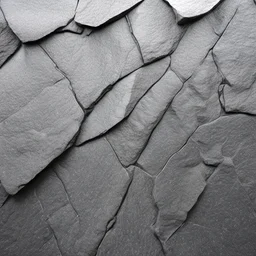
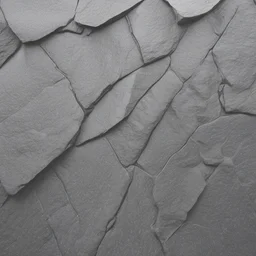
Tienda y tableros: tarjetas, textura relativa y juntas de magma
Las tarjetas de la tienda ya no se estiran al final de la fila. La
textura de casilla usa medidas relativas (200 %) y cubre cualquier
tamaño. Los colores de respaldo son los de las texturas nuevas y las
coordenadas de magma usan #F2F2F2 (3,67:1 y 8,54:1). BoardSeams dibuja
la lava de las juntas encima de la textura y debajo de las piezas, solo
en magma, en tablero, vista previa y miniaturas. Casilla clara de magma
con media 124,6 y desvío 25.

diff --git a/src/screens/ShopScreen.tsx b/src/screens/ShopScreen.tsx
@@ -10,6 +10,7 @@ import { showDialog } from '../components/dialog';
 import Piece from '../components/Piece';
 import { Segmented } from '../components/Segmented';
 import { SquareTexture } from '../components/SquareTexture';
+import { BoardSeams } from '../components/BoardSeams';
 import { StatIcon } from '../components/StatIcon';
 import { statusBarTop } from '../components/statusBarTop';
 import { Tip } from '../components/Tip';
@@ -25,7 +26,7 @@ import { useSettings } from '../settings/SettingsContext';
 import { TIP_MESSAGES } from '../settings/tips';
 import { useBoardTheme } from '../settings/useBoardTheme';
 import { useTips } from '../settings/useTips';
-import { boardThemes, cardSkin, type, colors, fonts, radius, space } from '../theme';
+import { boardSeams, boardThemes, cardSkin, type, colors, fonts, radius, space } from '../theme';
 import type { BoardThemeId } from '../theme';
 
 export type ShopTab = 'boards' | 'pieces';
@@ -236,7 +237,8 @@ function BoardThumb({ id }: { id: BoardThemeId }) {
         return (
           <View key={i} style={styles.thumbCell}>
             <View style={[StyleSheet.absoluteFill, { backgroundColor: light ? theme.light : theme.dark }]} />
-            <SquareTexture theme={id} light={light} size={64} seed={i} />
+            <SquareTexture theme={id} light={light} seed={i} />
+            {boardSeams(id) && <BoardSeams cell={44} left={i % 4 > 0} top={i >= 4} />}
           </View>
         );
       })}
@@ -257,7 +259,8 @@ function SetThumb({ id, board }: { id: AnyPieceSetId; board: BoardThemeId }) {
         const light = i % 2 === 0;
         return (
           <View key={p.type} style={[styles.thumbPieceCell, { backgroundColor: light ? theme.light : theme.dark }]}>
-            <SquareTexture theme={board} light={light} size={64} seed={i} />
+            <SquareTexture theme={board} light={light} seed={i} />
+            {boardSeams(board) && <BoardSeams cell={56} left={i > 0} />}
             <Piece type={p.type} color={p.color} size={44} set={id} showEmbers />
           </View>
         );
@@ -301,8 +304,8 @@ const styles = StyleSheet.create({
   right: { flex: 1, minWidth: 0 },
   grid: { flexDirection: 'row', flexWrap: 'wrap', gap: space.md, marginTop: space.lg },
   item: { ...cardSkin, borderRadius: 18, borderWidth: 2, padding: space.sm, gap: 10 },
-  itemWide: { flexGrow: 1, flexBasis: '30%' },
-  itemNarrow: { flexGrow: 1, flexBasis: '46%' },
+  itemWide: { flexBasis: '30%' },
+  itemNarrow: { flexBasis: '46%' },
   itemSelected: { borderColor: colors.gold },
   itemName: { fontFamily: fonts.extrabold, fontSize: type.body, color: colors.text },
   itemState: { fontFamily: fonts.bold, fontSize: type.secondary, color: colors.textMuted, minHeight: 20 },

diff --git a/src/theme.ts b/src/theme.ts
@@ -71,16 +71,25 @@ export const boardThemes = {
   azul: { name: 'Azul', light: '#DEE3E6', dark: '#8CA2AD' },
   gris: { name: 'Gris', light: '#E3E3E3', dark: '#969696' },
   morado: { name: 'Morado', light: '#EAE3F2', dark: '#9C83B8' },
-  // Con textura (assets/texturas, ver src/pieces/textures.ts). Los colores son el promedio de la textura:
-  // sirven de respaldo, para las coordenadas y para la vista previa.
-  madera: { name: 'Madera', light: '#E0BE8A', dark: '#7A4A2A', texture: 'madera' },
-  marmol: { name: 'Mármol', light: '#E8E6E1', dark: '#2F5A44', texture: 'marmol' },
+  // Con textura (assets/texturas, ver src/pieces/textures.ts). Los colores son el promedio de las texturas
+  // nuevas (15-11-2026): sirven de respaldo mientras cargan, para las coordenadas y para la vista previa.
+  madera: { name: 'Madera', light: '#D3B18B', dark: '#79583F', texture: 'madera' },
+  marmol: { name: 'Mármol', light: '#CCCBCE', dark: '#56575C', texture: 'marmol' },
   hielo: { name: 'Hielo', light: '#91B1C7', dark: '#265E73', texture: 'hielo' },
-  magma: { name: 'Magma', light: '#6D3F2F', dark: '#362A2A', texture: 'magma' },
-} as const satisfies Record<string, { name: string; light: string; dark: string; texture?: string }>;
+  // `label`: color propio de las coordenadas cuando el del tema no llega a 3:1 sobre las dos casillas.
+  // `seams`: lava dibujada en las juntas del tablero (BoardSeams), solo magma.
+  magma: { name: 'Magma', light: '#7D7D7F', dark: '#454547', texture: 'magma', label: '#F2F2F2', seams: true },
+} as const satisfies Record<string, { name: string; light: string; dark: string; texture?: string; label?: string; seams?: boolean }>;
 export type BoardThemeId = keyof typeof boardThemes;
 /** Tema del tablero con textura: `texture` es el estilo de material (`MaterialSetId`). */
 export const boardTexture = (id: BoardThemeId): string | undefined => (boardThemes[id] as { texture?: string }).texture;
+/** Color de las coordenadas: el propio del tema o el complemento de la casilla. */
+export const boardLabel = (id: BoardThemeId, light: boolean): string => {
+  const theme = boardThemes[id] as { light: string; dark: string; label?: string };
+  return theme.label ?? (light ? theme.dark : theme.light);
+};
+/** El tablero dibuja la lava de las juntas (solo magma). */
+export const boardSeams = (id: BoardThemeId): boolean => !!(boardThemes[id] as { seams?: boolean }).seams;
 
 // Resaltados del tablero (sección 5 de design.md)
 export const boardHighlight = {

diff --git a/src/components/Board.tsx b/src/components/Board.tsx
@@ -15,13 +15,14 @@ import { Chess, Square } from 'chess.js';
 import { useFeedback } from '../feedback/feedback';
 import { useI18n } from '../i18n/I18nContext';
 import { useBoardTheme } from '../settings/useBoardTheme';
-import { boardHighlight, boardThemes, colors } from '../theme';
+import { boardHighlight, boardLabel, boardSeams, boardThemes, colors } from '../theme';
 import type { BoardThemeId } from '../theme';
 import { useBoardSide } from './BoardSizeContext';
 import { dragTilt, mateSquares, slideTilt } from './boardMotion';
 import { useReducedMotion } from './useReducedMotion';
 import { Captured, computeMove, Offsets } from './boardAnimation';
 import { SquareTexture } from './SquareTexture';
+import { BoardSeams } from './BoardSeams';
 import Piece, { PieceColor, PieceType } from './Piece';
 import { isDoubleTap, TapPoint } from './boardTap';
 import { useContextMenu } from './useContextMenu';
@@ -598,7 +599,7 @@ export function Board({
       if (offsets[`${br}${bc}`]) rowAnimating = true;
       const isLight = (br + bc) % 2 === 0;
       const bg = isLight ? theme.light : theme.dark;
-      const labelColor = isLight ? theme.dark : theme.light;
+      const labelColor = boardLabel(boardTheme, isLight);
 
       const isLast = lastMove && (lastMove.from === square || lastMove.to === square);
       const isSelected = selected === square;
@@ -625,7 +626,7 @@ export function Board({
             zIndex: offsets[`${br}${bc}`] ? 10 : 0,
           }}
         >
-          <SquareTexture theme={boardTheme} light={isLight} size={sq} seed={br * 3 + bc * 5} />
+          <SquareTexture theme={boardTheme} light={isLight} seed={br * 3 + bc * 5} />
           {isLast && !plan && <View style={[styles.fill, { backgroundColor: boardHighlight.lastMove }]} />}
           {isMarked && (
             <View
@@ -655,6 +656,8 @@ export function Board({
           {isCheck && !mate && <View style={[styles.fill, { backgroundColor: boardHighlight.check }]} />}
           {isMateKing && <FadeSquare key={`mate-${anim.id}`} color={boardHighlight.mate} still={reduced} />}
           {mate?.escapes.includes(square) && <FadeSquare key={`esc-${anim.id}`} color={boardHighlight.mateEscape} still={reduced} />}
+
+          {boardSeams(boardTheme) && <BoardSeams cell={sq} left={bc > 0} top={br > 0} />}
 
           {c === 0 && (
             <Text selectable={false} style={[styles.rank, { color: labelColor, fontSize: Math.max(9, sq * 0.2) }]}>

diff --git a/src/components/BoardSeams.tsx b/src/components/BoardSeams.tsx
@@ -1,0 +1,38 @@
+import React from 'react';
+import Svg, { Line } from 'react-native-svg';
+
+type Props = {
+  /** Lado de la casilla, para el grosor de la lava (relativo a la casilla). */
+  cell: number;
+  /** Junta vertical a la izquierda de la casilla (la primera columna no la lleva: es el borde del tablero). */
+  left?: boolean;
+  /** Junta horizontal arriba de la casilla (la primera fila no la lleva). */
+  top?: boolean;
+};
+
+// Lava en las juntas del tablero de magma, dibujada en código. Va encima de la textura y de las marcas de la
+// casilla y debajo de las piezas. Las líneas se dibujan en el borde con el doble de grosor: el SVG recorta la
+// mitad exterior y queda visible el ancho pedido dentro de la casilla. En los cruces se suman halo y núcleo.
+const HALO = '#FF6A00';
+const CORE = '#FFB347';
+
+export function BoardSeams({ cell, left = false, top = false }: Props) {
+  const halo = Math.max(1.5, cell * 0.05) * 2;
+  const core = Math.max(0.75, cell * 0.018) * 2;
+  return (
+    <Svg width="100%" height="100%" style={{ position: 'absolute', left: 0, top: 0 }} pointerEvents="none">
+      {left && (
+        <>
+          <Line x1={0} y1={0} x2={0} y2={10000} stroke={HALO} strokeWidth={halo} strokeOpacity={0.35} />
+          <Line x1={0} y1={0} x2={0} y2={10000} stroke={CORE} strokeWidth={core} strokeOpacity={0.85} />
+        </>
+      )}
+      {top && (
+        <>
+          <Line x1={0} y1={0} x2={10000} y2={0} stroke={HALO} strokeWidth={halo} strokeOpacity={0.35} />
+          <Line x1={0} y1={0} x2={10000} y2={0} stroke={CORE} strokeWidth={core} strokeOpacity={0.85} />
+        </>
+      )}
+    </Svg>
+  );
+}

diff --git a/src/components/SquareTexture.tsx b/src/components/SquareTexture.tsx
@@ -7,13 +7,16 @@ import { BoardThemeId, boardTexture } from '../theme';
 type Props = {
   theme: BoardThemeId;
   light: boolean;
-  size: number;
   /** Casilla (columna + fila): elige qué cuarto de la textura se muestra, para que las casillas no se repitan. */
   seed?: number;
 };
 
-/** Fondo con textura de una casilla. No dibuja nada si el tema es de color liso. Va como primer hijo de la casilla. */
-export function SquareTexture({ theme, light, size, seed = 0 }: Props) {
+/**
+ * Fondo con textura de una casilla. No dibuja nada si el tema es de color liso. Va como primer hijo de la casilla.
+ * El tamaño es relativo a la casilla (200 % de ancho y alto): así también cubre las casillas grandes de la
+ * vista previa de la tienda, sin dejar huecos de color liso.
+ */
+export function SquareTexture({ theme, light, seed = 0 }: Props) {
   const id = boardTexture(theme);
   if (!id || !isMaterialSet(id)) return null;
   const offset = [seed % 2, (seed >> 1) % 2];
@@ -21,7 +24,13 @@ export function SquareTexture({ theme, light, size, seed = 0 }: Props) {
     <View style={styles.clip} pointerEvents="none">
       <Image
         source={light ? TEXTURES[id].light : TEXTURES[id].dark}
-        style={{ position: 'absolute', width: size * 2, height: size * 2, left: -offset[0] * size, top: -offset[1] * size }}
+        style={{
+          position: 'absolute',
+          width: '200%',
+          height: '200%',
+          left: offset[0] ? '-100%' : 0,
+          top: offset[1] ? '-100%' : 0,
+        }}
       />
     </View>
   );
